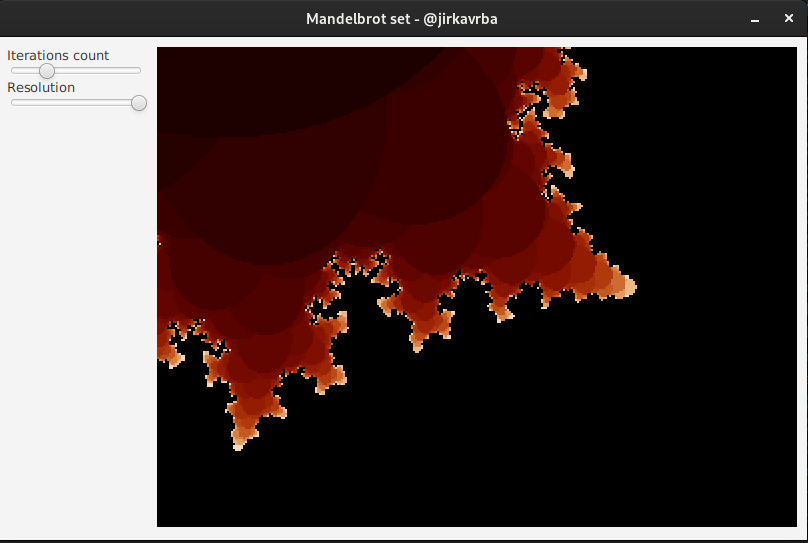
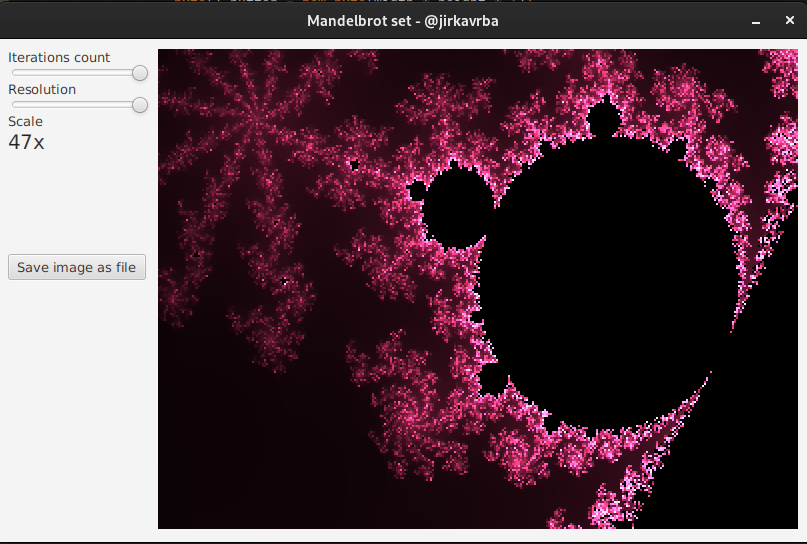
Saving canvas image to file implementation (still WIP)

diff --git a/src/main/java/dev/vrba/experiments/mandelbrot/MainWindow.java b/src/main/java/dev/vrba/experiments/mandelbrot/MainWindow.java
@@ -5,15 +5,26 @@ import dev.vrba.experiments.mandelbrot.math.ComplexNumber;
 import dev.vrba.experiments.mandelbrot.math.MandelbrotSet;
 import javafx.geometry.Insets;
 import javafx.scene.Scene;
+import javafx.scene.SnapshotParameters;
 import javafx.scene.canvas.Canvas;
 import javafx.scene.canvas.GraphicsContext;
+import javafx.scene.control.Alert;
+import javafx.scene.control.Button;
 import javafx.scene.control.Label;
 import javafx.scene.control.Slider;
+import javafx.scene.image.PixelFormat;
+import javafx.scene.image.PixelReader;
+import javafx.scene.image.WritableImage;
+import javafx.scene.image.WritablePixelFormat;
 import javafx.scene.layout.HBox;
 import javafx.scene.layout.VBox;
 import javafx.scene.paint.Color;
 import javafx.scene.text.Font;
+import javafx.stage.FileChooser;
 import javafx.util.Pair;
+
+import java.io.*;
+import java.nio.ByteBuffer;
 
 public class MainWindow {
 
@@ -23,6 +34,10 @@ public class MainWindow {
 
     private final Slider resolution;
 
+    private final Label scaleLabel = new Label();
+
+    private final Button saveButton = new Button("Save image as file");
+
     private final MandelbrotSet mandelbrot;
 
     // This is just to prevent my PC from straight up dying
@@ -30,7 +45,6 @@ public class MainWindow {
 
     private int scale = 1;
 
-    private final Label scaleLabel = new Label();
 
     private static final int MAX_SCALE = 2000;
 
@@ -43,7 +57,6 @@ public class MainWindow {
     public final static int HEIGHT = 480;
 
     private Pair<Double, Double> dragStart;
-
 
     public MainWindow() {
         this.mandelbrot = new MandelbrotSet();
@@ -66,7 +79,9 @@ public class MainWindow {
                         this.resolution,
 
                         new Label("Scale"),
-                        this.scaleLabel
+                        this.scaleLabel,
+
+                        this.saveButton
                 ),
                 this.canvas
         );
@@ -83,6 +98,7 @@ public class MainWindow {
         this.iterations.setBlockIncrement(5);
         this.resolution.setBlockIncrement(1);
         this.scaleLabel.setFont(new Font(20));
+        this.scaleLabel.setPadding(new Insets(0, 0, 100, 0));
     }
 
     private void registerEventListeners() {
@@ -144,6 +160,47 @@ public class MainWindow {
             );
 
             this.draw();
+        });
+
+        this.saveButton.setOnMouseClicked(event -> {
+            try {
+                WritableImage image = new WritableImage(WIDTH, HEIGHT);
+                image = this.canvas.snapshot(
+                        new SnapshotParameters(),
+                        image
+                );
+
+                File target = (new FileChooser()).showSaveDialog(null);
+
+                // https://stackoverflow.com/questions/27054672/writing-javafx-scene-image-image-to-file
+                // Was to lazy to look for a better solution
+                if (target.canWrite() && !target.isDirectory()) {
+                    int width = (int) image.getWidth();
+                    int height = (int) image.getHeight();
+
+                    byte[] buffer = new byte[width * height * 4];
+
+                    PixelReader reader = image.getPixelReader();
+                    WritablePixelFormat<ByteBuffer> format = PixelFormat.getByteBgraInstance();
+
+                    reader.getPixels(0, 0, width, height, format, buffer, 0, width * 4);
+
+                    BufferedOutputStream out = new BufferedOutputStream(new FileOutputStream(target));
+
+                    for(int count = 0; count < buffer.length; count += 4) {
+                        out.write(buffer[count + 2]);
+                        out.write(buffer[count + 1]);
+                        out.write(buffer[count]);
+                        out.write(buffer[count + 3]);
+                    }
+
+                    out.flush();
+                    out.close();
+                }
+            } catch (Exception exception) {
+                Alert alert = new Alert(Alert.AlertType.ERROR, exception.getMessage());
+                alert.show();
+            }
         });
     }
 
